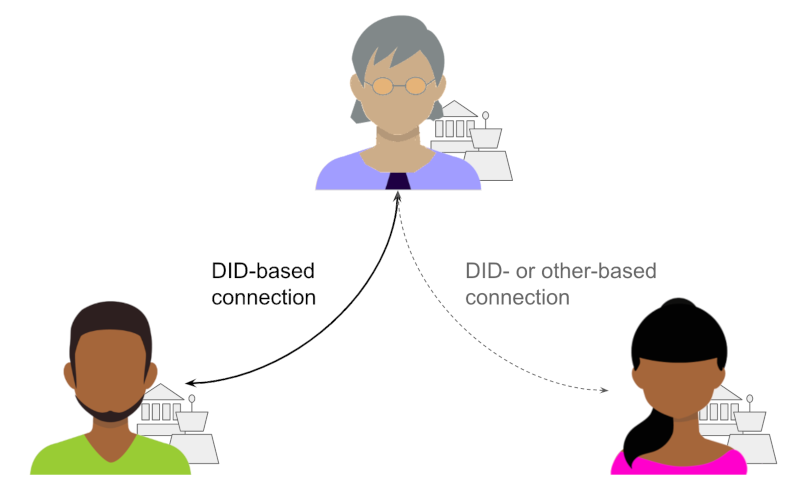
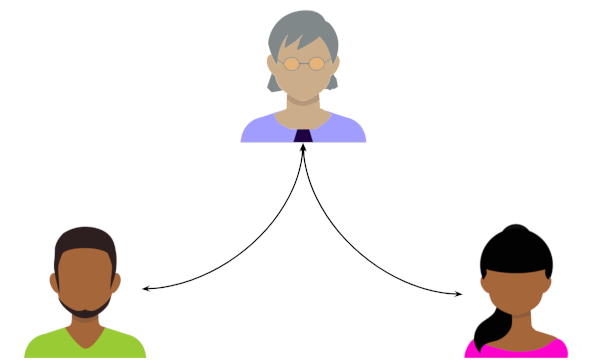
First respectable draft

diff --git a/text/introductions/README.md b/text/introductions/README.md
@@ -14,9 +14,9 @@ it already knows, but that do not know each other.
 [motivation]: #motivation
 
 Introductions are a fundamental activity in human relationships. They allow
-us to bootstrap contact information and trust. We need a standard way to
-do introductions in an SSI ecosystem, and it needs to be flexible, secure,
-privacy-respecting, and well documented.
+us to bootstrap contact information and trust. They are also a source of
+virality. We need a standard way to do introductions in an SSI ecosystem,
+and it needs to be flexible, secure, privacy-respecting, and well documented.
 
 ## Tutorial
 [tutorial]: #tutorial
@@ -33,14 +33,12 @@ This is the Introductions 1.0 protocol. It is uniquely identified by the URI:
 
 Introductions target scenarios like this:
 
->Alice has a pairwise DID-based connection with Bob. She also has some type
-of connection (either DID-based or via a website, email, or similar) with
-Carol. Alice believes that Bob and Carol do not know each other, and she
+>Alice knows Bob and Carol, and can talk to each of them. She 
 wants to introduce them in a way that allows a relationship to form.
 
 ![scenario diagram](scenario.png)
 
-This use case is worded carefully; it is more adaptable than it may
+This use case is worded carefully; it is far more adaptable than it may
 appear at first glance. The [Advanced Use Cases](#advanced-use-cases)
 section later in the doc explores many variations. But the early part
 of this document focuses on the simplest reading of the use case.
@@ -61,65 +59,81 @@ the scope of the introduction.
 This suggests an important insight about the relationship between the
 introduction protocol and the [connection protocol](
 https://github.com/hyperledger/indy-hipe/blob/master/text/0031-connection-protocol/README.md):
-*they overlap*. The invitation to connect, which begins the connection
-protocol, is also the final step in an introduction.
+*they overlap*. The invitation to form a relationship, which
+begins the connection protocol, is also the final step in an
+introduction.
 
 Said differently, *the goal of the introduction protocol is to start the
 connection protocol*.
 
 ### Roles
 
-There are three participants in the protocol.
+There are three [TODO:do we want to support introducing more than 2 at a time?]
+participants in the protocol, but only two roles.
 
 The __introducer__ begins the process and must know the other two parties.
-Alice is the introducer in the diagram above.
-
-The other two participants are both __introducees__. This means there are
-three participants but only two roles. However, the `introducee` role has two variants: one where the connection with introducer
-is DID-based (`introducee<did>`), and one where it is based on some other
-form of connection (`introducee<other>`). In the diagram above, Bob is an
-`introducee<did>`, and Carol is an `introducee<other>`. This distinction
-does not alter the basic flow, but it may change how communication happens,
-and it affects how the `connection-invitation` is sent when the connection
-protocol is triggered at the end of the introduction.
+Alice is the introducer in the diagram above. The other two participants
+are both __introducees__.
 
 ### States
+
+In a successful introduction, the introducer state progresses from
+`[start] -> arranging -> delivering -> confirming (optional) -> [done]`.
+
+Meanwhile, each introducee progresses from `[start] -> deciding -> waiting
+-> [done]`.
+
+Of course, errors and optional choices complicate the possibilities. The
+full state machine for each party are:
+
+[![state machine matrix](states.png)](https://docs.google.com/spreadsheets/d/1jjLQMCXWCN3nuXUg8mSpJQlzXGlYeo1n0W9yNuYJQLM/edit)
+
+The subtleties are explored in the [Advanced Use Cases](#advanced-use-cases)
+section.
 
 ### Messages
 
 ##### `proposal`
 
 This message informs an introducee that an introducer wants to perform
-an introduction, and requests approval to do so. It looks like this:
+an introduction, and requests approval to do so. It works the same way
+that proposals do in [double-opt-in introductions](
+https://avc.com/2009/11/the-double-optin-introduction/) in the
+non-agent world:
+    
+![sample introduction email](double-opt-in.png)
+
+The DIDComm message looks like this:
 
 [![simple proposal example](simple-proposal.png)](simple-proposal.json)
 
-This matches the way an introduction is proposed in [double-opt-in
-introductions](https://avc.com/2009/11/the-double-optin-introduction/) in the
-non-agent world:
-
-![sample introduction email](double-opt-in.png)
-
-The `to` field contains an __introducee descriptor__ that helps the
-party receiving the proposal to evaluate whether they wish to accept
-it. Depending on how much context is available between introducer and
-introducee, this can be as simple as a name, or something fancier (see
+The `to` field contains an __introducee descriptor__ that provides
+context about the introduction, helping the party receiving the proposal
+to evaluate whether they wish to accept it. Depending on how much context
+is available between introducer and introducee independent of the formal
+proposal message, this can be as simple as a name, or something fancier (see
 [Advanced Use Cases](#advanced-use-cases) below). 
 
 ##### `response`
 
-Depending on whether the introducee is capable of DID-based communication
-or not, the response might look like this:
-
-[![simple response from non-DID-based introducee](simple-response-other.png)](simple-response-other.json)
-
-Or like this:
+A standard example of the message that an introducee sends in response
+to an introduction proposal would be:
 
 [![simple response from DID-based introducee](simple-response-did.png)](simple-response-did.json)
 
-Note that the second form contains a fully valid `connection-invitation`
-message. At least one of these messages must be received by an introducer
-to successfully complete the introduction, because the final step in
+A simpler response, also valid, might look like this:
+
+[![simple response from non-DID-based introducee](simple-response-other.png)](simple-response-other.json)
+
+The difference between the two forms is whether the response contains
+a valid `connection-invitation` message. Normally, it should--but sometimes,
+an introducee may not be able to (or may not want to) share a DIDComm 
+endpoint to facilitate the introduction. In such cases, the stripped-down
+variant may be the right choice. See the [Advanced Use Cases](#advanced-use-cases)
+section for more details.
+
+At least one of the more complete variants must be received by an
+introducer to successfully complete the introduction, because the final step in
 the protocol is to begin the [connection protocol](
 https://github.com/hyperledger/indy-hipe/blob/master/text/0031-connection-protocol/README.md)
 by forwarding the `connection-invitation` message from one introducee
@@ -127,20 +141,91 @@ to the other.
 
 ##### `connection-invitation`
 
-This message is no different
-from the message that two parties would generate when one invites the
-other with no intermediary, except that:
+This message is not a member of the `introductions/1.0` message family;
+it is not even adopted. It is part of the `connections/1.0` family, and
+is no different from the message that two parties would generate when one
+invites the other with no intermediary, except that:
 
 * It is delivered by the introducer, not by either of the introducees.
 * It has a `~thread` decorator that identifies the introduction as
 its parent thread.
-* If both introducees already have DID-based connections with the
-introducer, it can be delivered over standard DIDComm channels, authcrypted,
-to either one of them. (If one of the introducees does NOT have a DID-based
+* If introducees already have DIDComm capabilities, it can be delivered over
+standard DIDComm channels. If one of the introducees does NOT have a DID-based
 channel with the introducer, then the invitation must be delivered to that
-introducee/invitee, using the non-DIDComm channel.)
+introducee/invitee, using the non-DIDComm channel. [TODO: is there a way for
+the introducer, rather than the other introducee, to "sponsor" the introducee
+that needs SSI onboarding?]
+* If the invitation is delivered over a DIDComm channel, it is unusual
+in that it is from a party other than the one that owns the channel.
 
 ### Advanced Use Cases
+
+Any of the parties can be an organization or thing instead of a person. 
+
+![any identity owner type](any-identity-owner-type.png)
+
+Bob and Carol may actually know each other already, without Alice realizing
+it. The introduction may be rejected. It may create a new pairwise
+relationship between Bob and Carol that is entirely invisible to Alice.
+Or it may create an n-wise relationship in which Alice, Bob, and Carol know
+one another by the same identifiers.
+
+Some specific examples follow.
+
+##### One introducee can't do DIDComm
+
+The [connection protocol](
+https://github.com/hyperledger/indy-hipe/blob/master/text/0031-connection-protocol/README.md)
+allows the invited party to be onboarded (acquire software and an agent)
+as part of the workflow.
+
+![diagram](uneven.png)
+
+Introductions support this use case, too. In such a case, the introducer
+sends a standard `proposal` to the introducee that DOES have DIDComm
+capabilities, but conveys the equivalent of a `proposal` over a
+non-DIDComm channel to the other introducee. The `response` from the
+DIDComm-capable introducee must include a `connection-invitation` with
+a deep link for onboarding, and this is sent to the introducee that needs
+onboarding.
+
+##### Neither introducee can do DIDComm
+
+In this case, the introducer first goes through onboarding via the
+connection protocol with one introducee. Once that introducee can do DIDComm,
+the previous workflow is used.
+
+##### One introducee has a public DID with a standing invitation
+
+This might happen if Alice wants to introduce Bob to CarolCorp, and
+CarolCorp has published a `connection-invitation` for general use.
+
+![public DID, standing invitation](public-invitation.png)
+
+As introducer, Alice simply has to forward CarolCorp's `connection-invitation`
+to Bob. No `proposal` message needs to be sent to CarolCorp;
+this is the `skip proposal` event shown in the introducer's
+state machine.
+
+##### Introducer doesn't have DIDComm capabilities
+
+This might happen if AliceCorp wants to connect two of its customers.
+AliceCorp may not be able to talk to either of its customers over
+DIDComm channels, but it doesn't know whether they can talk to each
+other that way.
+
+![introducer doesn't have DIDComm capabilities](introducer-no-did.png)
+
+In this case, the introducer conveys the same information that a
+`proposal` would contain, using non-DIDComm channels. As long as one
+of the introducees sends back some kind of response that includes
+approval and a `connection-invitation`, the invitation can be
+delivered. The entire interaction is DIDComm-less.
+
+##### Requesting confirmation
+[TODO: A field in the `response` where an introducee asks to be notified
+that the introduction has been made?]
+
 
 * Using acks to report status of introduction efforts.
 * Timeouts.
@@ -150,17 +235,6 @@ introducee/invitee, using the non-DIDComm channel.)
 * Public DIDs and standing invitations
 * Fancy settings in introducee descriptors.
 
-Any of the parties can be an organization or thing instead of a person. 
-Bob and Carol may actually know each other already, without Alice realizing
-it. The introduction may be rejected. It may create a new pairwise
-relationship between Bob and Carol that is entirely invisible to Alice.
-Or it may create an n-wise relationship in which Alice, Bob, and Carol know
-one another by the same identifiers.
-
-The protocol can even be adapted to a case where Alice has no DID-based
-connection to either party, by her simply going through the connection
-protocol first with at least one party, and then beginning the introduction
-protocol described here.
 
 [TODO: What if Alice is introducing Bob, a public entity with no connection to
 her, to Carol, a private person? Can she just relay Bob's invitation that
@@ -170,14 +244,25 @@ What if she is introducing 2 public entities and has a connection to neither?]
 ## Reference
 [reference]: #reference
 
-Provide guidance for implementers, procedures to inform testing,
-interface definitions, formal function prototypes, error codes,
-diagrams, and other technical details that might be looked up.
-Strive to guarantee that:
+### `proposal`
 
-- Interactions with other features are clear.
-- Implementation trajectory is well defined.
-- Corner cases are dissected by example.
+In the tutorial narrative, only a simple proposal was presented. A
+fancier version might be:
+
+[![fancy proposal example](fancy-proposal.png)](fancy-proposal.json)
+
+This adds a number of fields to the introducee descriptor. Each is optional
+and may be appropriate in certain circumstances. Most should be self-explanatory,
+but the `proposed` field deserves special comment. This tells whether the
+described introducee has received a proposal of their own, or will be
+introduced without that step.
+
+This example also adds the `nwise` field to the proposal. When `nwise` is
+present and its value is `true`, the proposal is to establish an nwise
+relationship in which the introducer participates, as opposed to a pairwise
+relationship in which only the introducees participate.
+
+[TODO: do we care about having a response signed? Security? MITM?]
 
 ## Drawbacks
 [drawbacks]: #drawbacks
